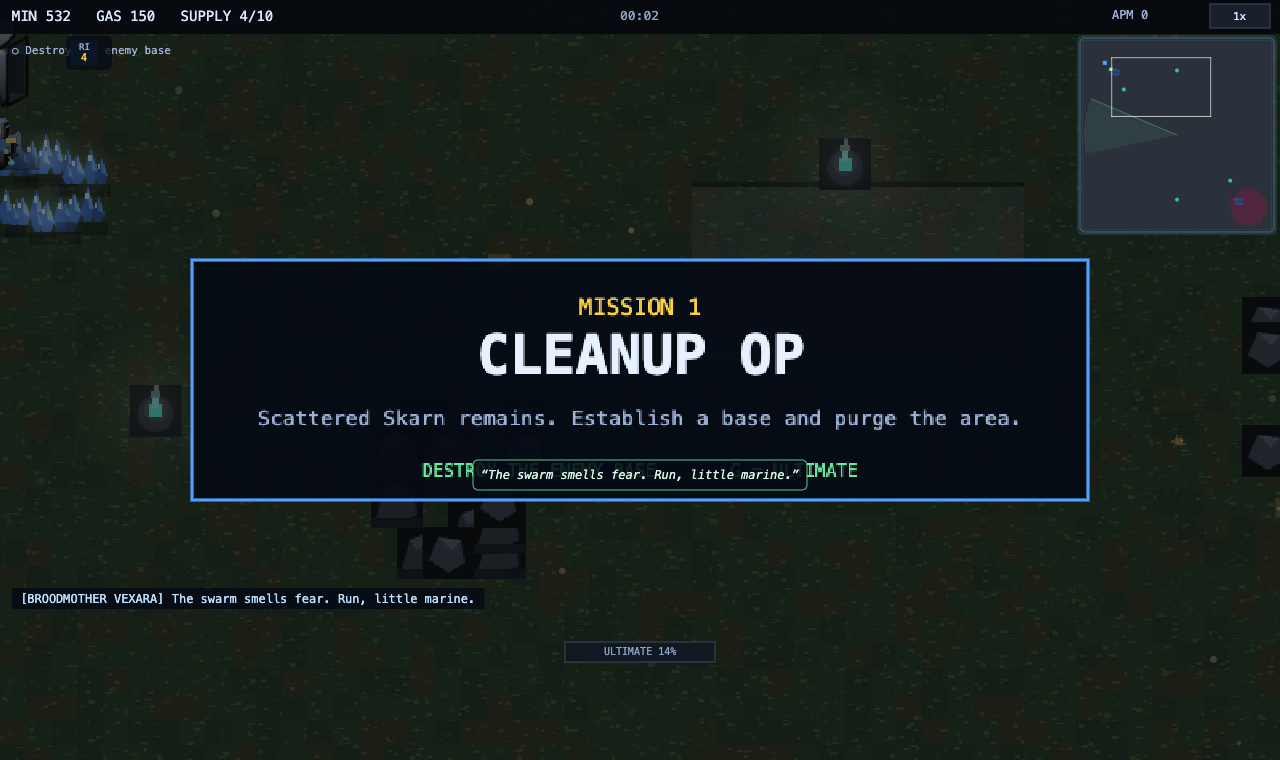
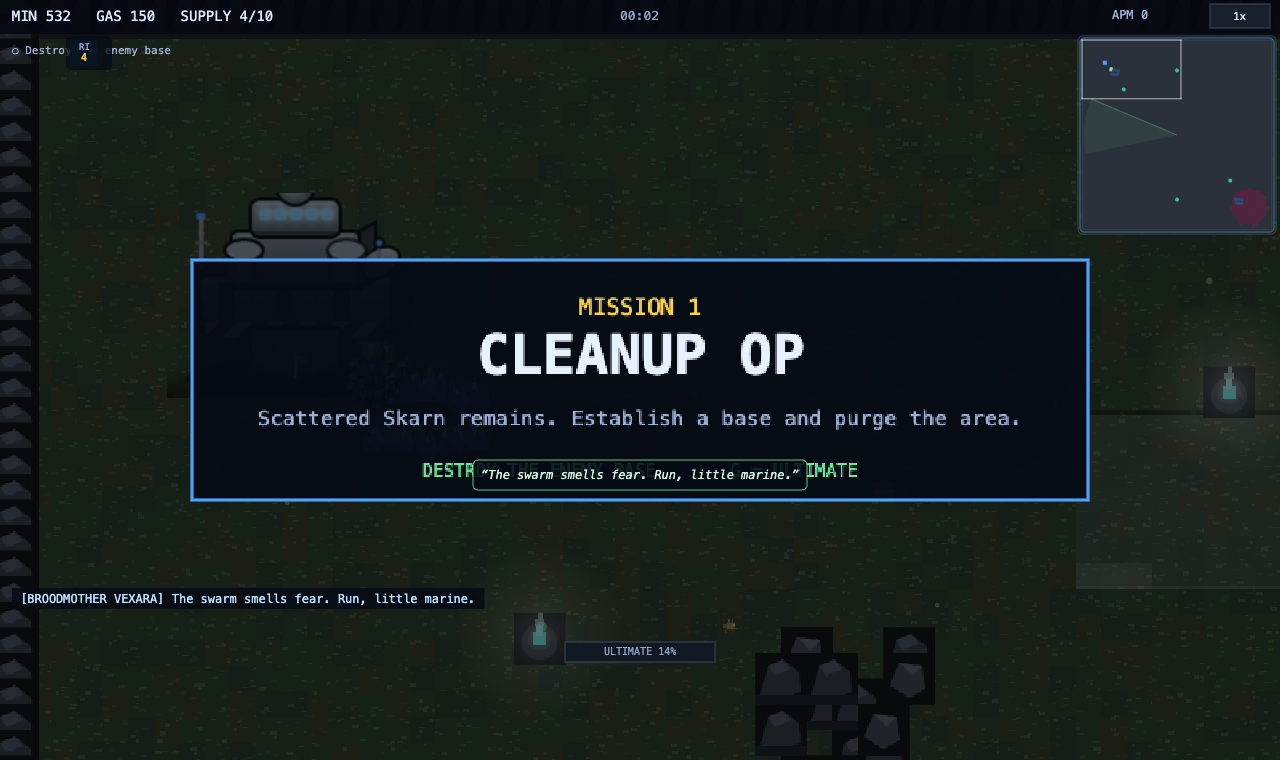
v2.35.1 SC1 visual depth Sprint B (gaps 27/94/95): animated HUD portrait busts cycling live walk frames at 7fps with hp/shield/energy bars + damaged-portrait red flicker; staged building wreckage (fresh inferno frame -> burning rubble -> cold ash over 30s, rising smoke columns, embers); damaged-unit

diff --git a/src2/scenes/HudScene.js b/src2/scenes/HudScene.js
@@ -364,8 +364,16 @@ export class HudScene extends Phaser.Scene {
     const T = b?.hotseat ? (b.activeTeam ?? 0) : 0;
     const race = b?.hotseat ? b.players[T].race : this.race;
     this._lastSelInfo = info;
+    // v2.35b: any non-unit selection clears busts (deselect or building)
+    if (!info?.building && !(info?.count > 0)) {
+      if (this._busts) { for (const s of this._busts) s.destroy(); this._busts = []; }
+      this._selUnits = null;
+    }
     if (info?.building) {
       const sel = info.building;
+      // v2.35b: building selected — clear unit busts
+      if (this._busts) { for (const s of this._busts) s.destroy(); this._busts = []; }
+      this._selUnits = null;
       if (this._cardTabBld !== sel.buildId) { this._cardTab = 'train'; this._cardTabBld = sel.buildId; }
       this.cardTitle.setText(sel.name.toUpperCase());
       this.selText.setText(`HP ${sel.hp}/${sel.maxHp}`);
@@ -417,7 +425,7 @@ export class HudScene extends Phaser.Scene {
       const names = info.units.slice(0, 3).map(u => `${u.name} ${u.hp}/${u.maxHp}${u.cargo ? ' +' + u.cargo : ''}`).join('  ');
       this.selText.setText(names);
       // SC1 unit-status portraits (hp/shield/energy bars + level chevrons)
-      if (!this.portraitG) this.portraitG = this.add.graphics().setScrollFactor(0);
+      if (!this.portraitG) this.portraitG = this.add.graphics().setScrollFactor(0).setDepth(152);
       this.drawPortraits(info.units, b);
       const order = RACE_INFO[race].buildingOrder.filter(bid => BUILDINGS[bid].race === race);
       const rows = workers ? order : [];
@@ -476,6 +484,9 @@ export class HudScene extends Phaser.Scene {
   drawPortraits(units, b) {
     const g = this.portraitG; if (!g) return;
     g.clear();
+    // v2.35b gap 27: destroy previous bust sprites before rebuilding
+    if (this._busts) { for (const s of this._busts) s.destroy(); }
+    this._busts = [];
     const x0 = 12, y0 = this.H - 142;
     const max = Math.min(6, (units || []).length);
     // frame
@@ -487,10 +498,31 @@ export class HudScene extends Phaser.Scene {
       const u = units[i];
       const x = x0 + i * 40, y = y0;
       g.fillStyle(0x101826, 1); g.fillRect(x, y, 36, 26);
-      // unit icon block tinted by race/team
-      g.fillStyle(0x4ea1ff, 0.9); g.fillRect(x + 12, y + 4, 12, 12);
+      // SC1: animated portrait bust — sprite cycle of the unit's walk frames
+      const team = u.team > 2 ? 2 : (u.team || 0);
+      const baseKey = `u-${u.def?.icon || u.kind}-t${team}`;
+      if (b.textures.exists(baseKey)) {
+        const sp = this.add.image(x + 18, y + 10, baseKey).setDepth(150).setScale(1.6);
+        this._busts.push({ sp, u, team, fr: 0 });
+      } else {
+        g.fillStyle(0x4ea1ff, 0.9); g.fillRect(x + 12, y + 4, 12, 12);
+      }
+    }
+    this._selUnits = units || [];
+    this._selX0 = x0; this._selY0 = y0; this._selMax = max;
+    this.drawPortraitBars();
+  }
+
+  drawPortraitBars() {
+    const g = this.portraitG; if (!g || !this._selUnits) return;
+    // redraw only the bars over the busts layer's frame
+    const x0 = this._selX0, y0 = this._selY0, max = this._selMax;
+    for (let i = 0; i < max; i++) {
+      const u = this._selUnits[i];
+      const x = x0 + i * 40, y = y0;
       // hp bar
       const hr = Math.max(0, Math.min(1, u.hp / (u.maxHp || 1)));
+      g.fillStyle(0x0a1220, 0.9); g.fillRect(x + 2, y + 18, 32, 6);
       g.fillStyle(0x000000, 0.6); g.fillRect(x + 2, y + 18, 32, 3);
       g.fillStyle(hr > 0.5 ? 0x3ddc6a : hr > 0.25 ? 0xffd23f : 0xff4444); g.fillRect(x + 2, y + 19, 32 * hr, 1);
       if (u.shield > 0) {
@@ -504,6 +536,32 @@ export class HudScene extends Phaser.Scene {
       // level chevrons
       const lv = u.level || 0;
       for (let c = 0; c < lv; c++) { g.fillStyle(0xffd23f, 0.95); g.fillRect(x + 3 + c * 4, y + 2, 3, 2); }
+      // SC1 damaged-portrait flicker: red flash while recently hurt
+      if (u._dmgFlashUntil && performance.now() < u._dmgFlashUntil) {
+        g.fillStyle(0xff4444, 0.25); g.fillRect(x, y, 36, 26);
+      }
+    }
+  }
+
+  // v2.35b gap 27: bust animation tick — walk-frame cycle ~7fps, live bars
+  update() {
+    if (!this._busts || !this._busts.length) return;
+    const now = performance.now();
+    if (now - (this._pfT || 0) < 140) return;
+    this._pfT = now;
+    const b = this.scene.get('Battle');
+    const fr = ((this._pf || 0) + 1) % 3; this._pf = fr;
+    for (const e of this._busts) {
+      if (!e.sp.active || e.u.dead) { if (e.sp.active) e.sp.setAlpha(0.25); continue; }
+      const k = `u-${e.u.def?.icon || e.u.kind}-t${e.team}-w${fr}`;
+      if (b?.textures?.exists(k)) e.sp.setTexture(k);
+    }
+    // live bars: redraw every other bust tick
+    if (this._selUnits) { this.portraitG.clear(); const x0 = this._selX0, y0 = this._selY0, max = this._selMax;
+      this.portraitG.fillStyle(0x0a1220, 0.85); this.portraitG.fillRect(x0 - 2, y0 - 2, max * 40 + 4, 30);
+      this.portraitG.lineStyle(1, 0x3f4a5a, 0.8); this.portraitG.strokeRect(x0 - 2, y0 - 2, max * 40 + 4, 30);
+      for (let i = 0; i < max; i++) { const x = x0 + i * 40; this.portraitG.fillStyle(0x101826, 1); this.portraitG.fillRect(x, y0, 36, 26); }
+      this.drawPortraitBars();
     }
   }
 

diff --git a/src2/engine/entity.js b/src2/engine/entity.js
@@ -782,7 +782,15 @@ export class Unit {
       }
     }
     this.hp -= amount;
-    this.sprite.setTint(0xffffff);
+    // v2.35b gap 95: SC1 damaged-unit tell — RED flash (replaces the plain white blink) + portrait flicker
+    this._dmgFlashUntil = performance.now() + 320;
+    if (!this._dmgTinting) {
+      this._dmgTinting = true;
+      this.sprite.setTint(this.team === 1 ? 0xff8866 : 0xff4433);
+      this.world.time.delayedCall(120, () => { if (!this.dead && this.sprite) { this.sprite.clearTint(); if (this._tinted) this.sprite.setTint(0xd8f0e0); } this._dmgTinting = false; });
+    } else {
+      this.sprite.setTint(this.team === 1 ? 0xff8866 : 0xff4433);
+    }
     // v2.34 L6: SC1 retaliation — an idle unit shot by a currently-visible attacker auto-acquires return fire
     if (!this.dead && attacker && !attacker.dead && this.def.damage > 0 && !this.def.worker && !this.order && !this.target && !this.burrowed && !this.cloaked && this.world.currentlyVisible && this.world.currentlyVisible(attacker.x, attacker.y)) {
       this.setOrder({ type: 'attackTarget', target: attacker });
@@ -806,7 +814,7 @@ export class Unit {
         this.world.tweens.add({ targets: b, x: this.x + (Math.random() * 24 - 12), y: this.y + (Math.random() * 24 - 12), alpha: 0, scale: 0.5, duration: 350, onComplete: () => b.destroy() });
       }
     }
-    this.world.time.delayedCall(60, () => { if (this.sprite && !this.dead) this.sprite.clearTint(); });
+    this.world.time.delayedCall(120, () => { if (this.sprite && !this.dead && !this._dmgTinting) this.sprite.clearTint(); });
     if (this.hp <= 0) {
       if (attacker && attacker.addKill && attacker.team === 0) attacker.addKill();
       this.die();
@@ -999,8 +1007,9 @@ export class Building {
     if (this.world.flash) this.world.flash(this.x, this.y, 0xff9c3c, s * 1.2, 420);
     this.world.tweens.add({ targets: boom, scale: s * 1.4, alpha: 0, duration: 500, onComplete: () => boom.destroy() });
     this.world.audio?.death(true);
-    // SC1: persistent burning rubble — smoldering ruin stays on the battlefield
-    const rub = this.world.add.image(this.x, this.y, 'rubble');
+    // SC1: persistent burning rubble — v2.35b gap 94 staged wreckage:
+    // fresh inferno frame -> burning embers -> cold ash, with smoke columns
+    const rub = this.world.add.image(this.x, this.y, 'rubble-fresh');
     rub.setDepth(7).setScale(Math.max(1, s * 0.9)).setAlpha(0.95).setRotation(Math.random() * 6.28);
     // flickering fires on the ruin
     const fires = [];
@@ -1010,7 +1019,28 @@ export class Building {
     };
     const fireIv = this.world.time.addEvent({ delay: 320, repeat: 24, callback: makeFire });
     fires.push(fireIv);
+    // stage 2: inferno frame collapses to the burning rubble frame at 6s
+    this.world.time.delayedCall(6000, () => {
+      if (!rub.active) return;
+      rub.setTexture('rubble');
+    });
+    // stage 3: fire dies to cold gray ash ~30s; sparse embers until 45s
+    const emberIv = this.world.time.addEvent({ delay: 1100, repeat: 21, callback: () => { if (Math.random() < 0.5) makeFire(); } });
+    this.world.time.delayedCall(30000, () => {
+      if (!rub.active) return;
+      rub.setTexture('rubble-ash');
+      fireIv.remove();
+    });
+    this.world.time.delayedCall(45000, () => { if (emberIv.active) emberIv.remove(); });
     this.world.tweens.add({ targets: rub, alpha: 0.55, duration: 25000 });
+    // rising smoke columns over the ruin
+    const puff = () => {
+      if (!rub.active || this.world.gameOver) return;
+      const p = this.world.add.image(this.x + (Math.random() * s * 10 - s * 5), this.y - 6, 'smoke').setDepth(9).setScale(1 + Math.random()).setAlpha(0.7);
+      this.world.tweens.add({ targets: p, y: p.y - 34 - Math.random() * 26, x: p.x - 10 + Math.random() * 20, alpha: 0, scale: p.scale * 2.1, duration: 2600 + Math.random() * 1400, onComplete: () => p.destroy() });
+    };
+    const smokeIv = this.world.time.addEvent({ delay: 700, repeat: 44, callback: puff });
+    this.world.events.once('shutdown', () => { try { smokeIv.remove(); fireIv.remove(); emberIv.remove(); } catch (e) {} });
     this.container.destroy();
     this.world.nav.unblockBy(this.id);
   }

diff --git a/src2/engine/art.js b/src2/engine/art.js
@@ -741,13 +741,38 @@ function createFx(scene) {
     ctx.fillStyle = 'rgba(140,200,255,0.5)'; ctx.fillRect(8, 10, 2, 2); ctx.fillRect(15, 14, 2, 2); ctx.fillRect(12, 17, 3, 1); // ionized residue
     ctx.fillStyle = 'rgba(30,40,60,0.5)'; ctx.beginPath(); ctx.ellipse(13, 12, 5, 3, 0.9, 0, 7); ctx.fill();
   });
-  // burning wreckage for dead structures
+  // burning wreckage for dead structures — v2.35b: fresh burning stage
   makeTex(scene, 'rubble', 40, 40, (ctx) => {
     ctx.fillStyle = 'rgba(24,22,20,0.85)';
     ctx.beginPath(); ctx.moveTo(4, 30); ctx.lineTo(12, 12); ctx.lineTo(20, 22); ctx.lineTo(28, 8); ctx.lineTo(36, 28); ctx.lineTo(30, 34); ctx.lineTo(10, 34); ctx.closePath(); ctx.fill();
     ctx.fillStyle = 'rgba(50,44,38,0.8)'; ctx.fillRect(9, 22, 8, 6); ctx.fillRect(22, 18, 9, 8);
     ctx.fillStyle = 'rgba(255,140,60,0.7)'; ctx.fillRect(13, 20, 3, 3); ctx.fillRect(26, 16, 2, 3);
     ctx.fillStyle = 'rgba(255,210,120,0.8)'; ctx.fillRect(14, 21, 1, 1); ctx.fillRect(26, 17, 1, 1);
+  });
+  // v2.35b gap 94: wreckage stage 1 — blackened twisted frame still fully alight
+  makeTex(scene, 'rubble-fresh', 40, 40, (ctx) => {
+    ctx.fillStyle = 'rgba(16,13,10,0.92)';
+    ctx.beginPath(); ctx.moveTo(3, 32); ctx.lineTo(9, 10); ctx.lineTo(15, 20); ctx.lineTo(21, 6); ctx.lineTo(27, 18); ctx.lineTo(33, 9); ctx.lineTo(37, 30); ctx.lineTo(30, 36); ctx.lineTo(8, 36); ctx.closePath(); ctx.fill();
+    // hot core flames
+    ctx.fillStyle = 'rgba(255,120,30,0.85)'; ctx.fillRect(8, 18, 6, 8); ctx.fillRect(18, 14, 7, 10); ctx.fillRect(28, 20, 5, 6);
+    ctx.fillStyle = 'rgba(255,190,80,0.9)'; ctx.fillRect(10, 20, 3, 4); ctx.fillRect(20, 16, 3, 5); ctx.fillRect(29, 22, 2, 3);
+    ctx.fillStyle = 'rgba(255,240,170,0.95)'; ctx.fillRect(11, 22, 1, 2); ctx.fillRect(21, 18, 1, 2);
+    // glowing beam tips
+    ctx.fillStyle = 'rgba(255,150,50,0.6)'; ctx.fillRect(9, 10, 2, 3); ctx.fillRect(21, 6, 2, 3); ctx.fillRect(33, 9, 2, 3);
+  });
+  // v2.35b gap 94: stage 3 — cold gray ash after the fire dies
+  makeTex(scene, 'rubble-ash', 40, 40, (ctx) => {
+    ctx.fillStyle = 'rgba(58,58,62,0.8)';
+    ctx.beginPath(); ctx.moveTo(4, 31); ctx.lineTo(11, 13); ctx.lineTo(19, 23); ctx.lineTo(27, 10); ctx.lineTo(36, 29); ctx.lineTo(29, 35); ctx.lineTo(9, 35); ctx.closePath(); ctx.fill();
+    ctx.fillStyle = 'rgba(92,92,98,0.7)'; ctx.fillRect(10, 24, 7, 5); ctx.fillRect(23, 20, 8, 7);
+    ctx.fillStyle = 'rgba(130,130,138,0.5)'; ctx.fillRect(12, 25, 3, 2); ctx.fillRect(25, 22, 3, 2);
+    ctx.fillStyle = 'rgba(30,30,34,0.6)'; ctx.fillRect(8, 33, 24, 2); // settled ash line
+  });
+  // v2.35b gap 94: rising smoke puff
+  makeTex(scene, 'smoke', 16, 16, (ctx) => {
+    const g = ctx.createRadialGradient(8, 8, 1, 8, 8, 8);
+    g.addColorStop(0, 'rgba(90,90,96,0.55)'); g.addColorStop(0.6, 'rgba(60,60,66,0.30)'); g.addColorStop(1, 'rgba(40,40,46,0)');
+    ctx.fillStyle = g; ctx.beginPath(); ctx.arc(8, 8, 8, 0, 7); ctx.fill();
   });
   // power-up crate (SC1 pickups)
   makeTex(scene, 'crate', 14, 14, (ctx) => {
